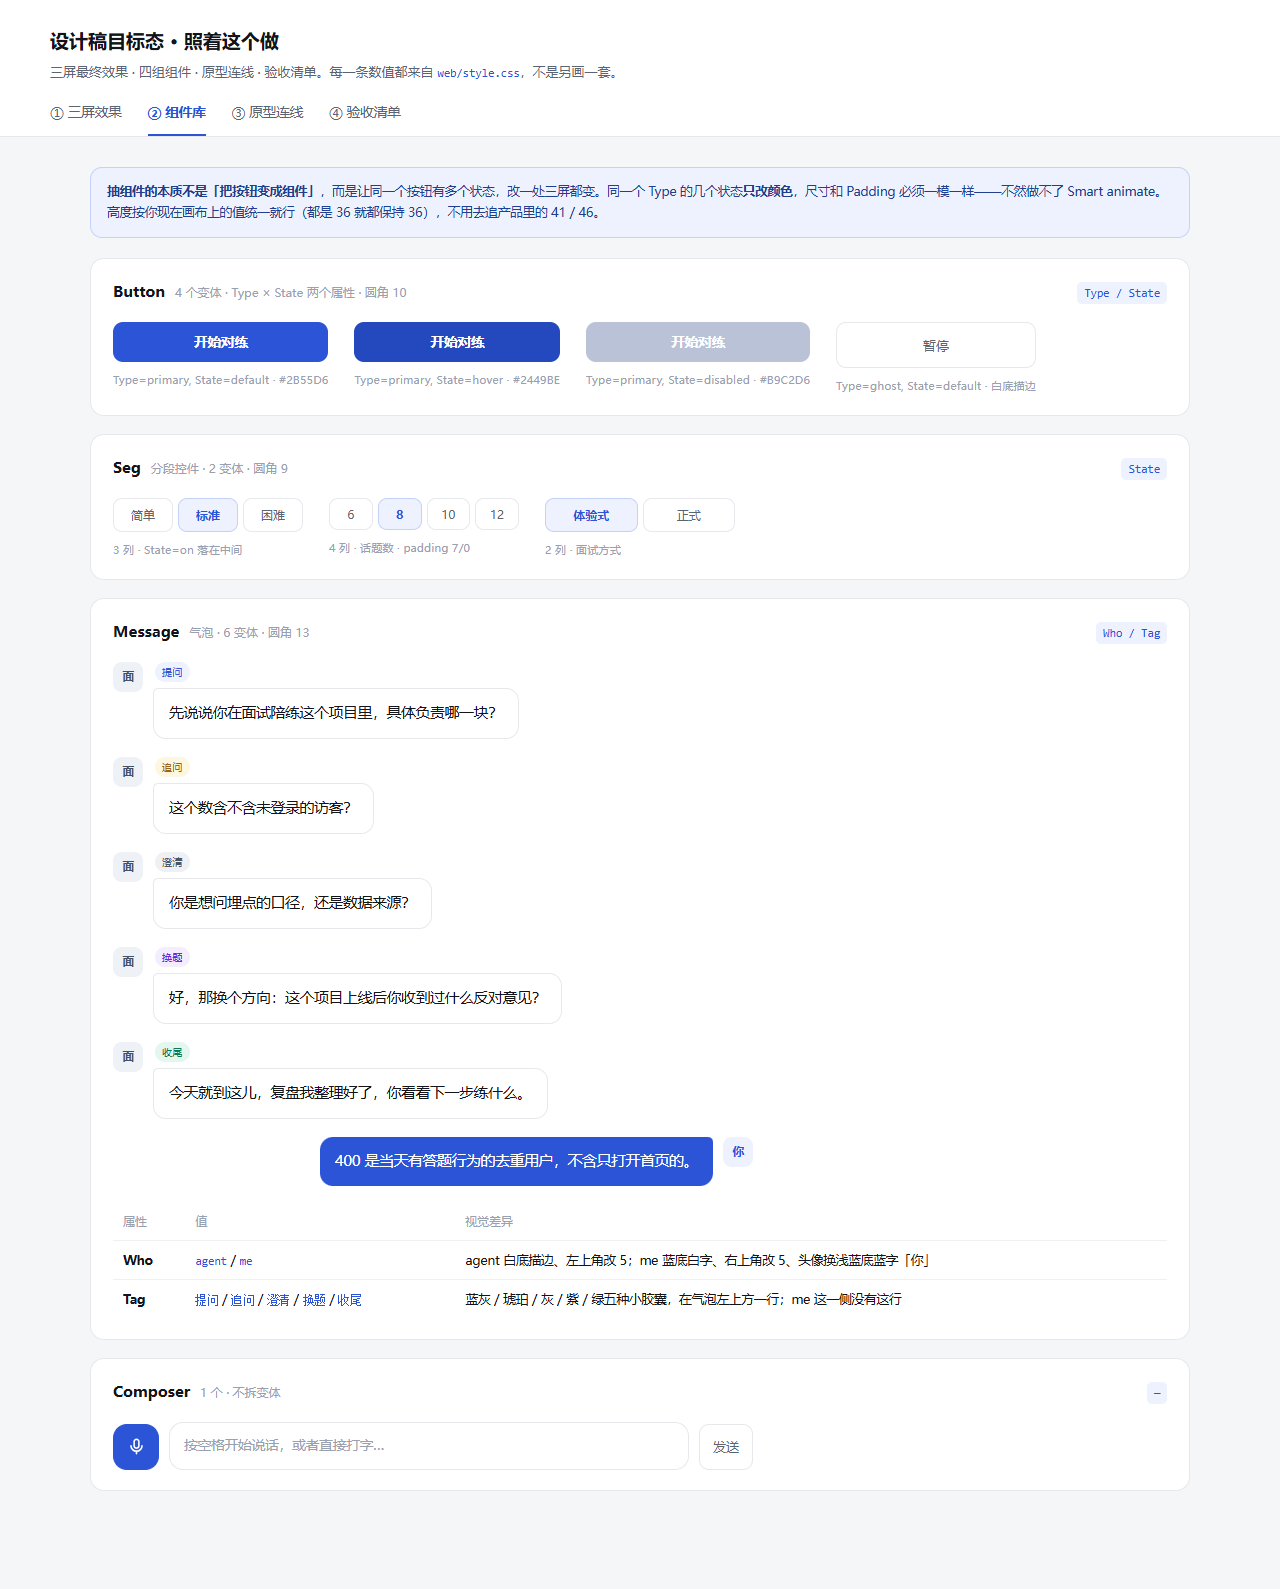
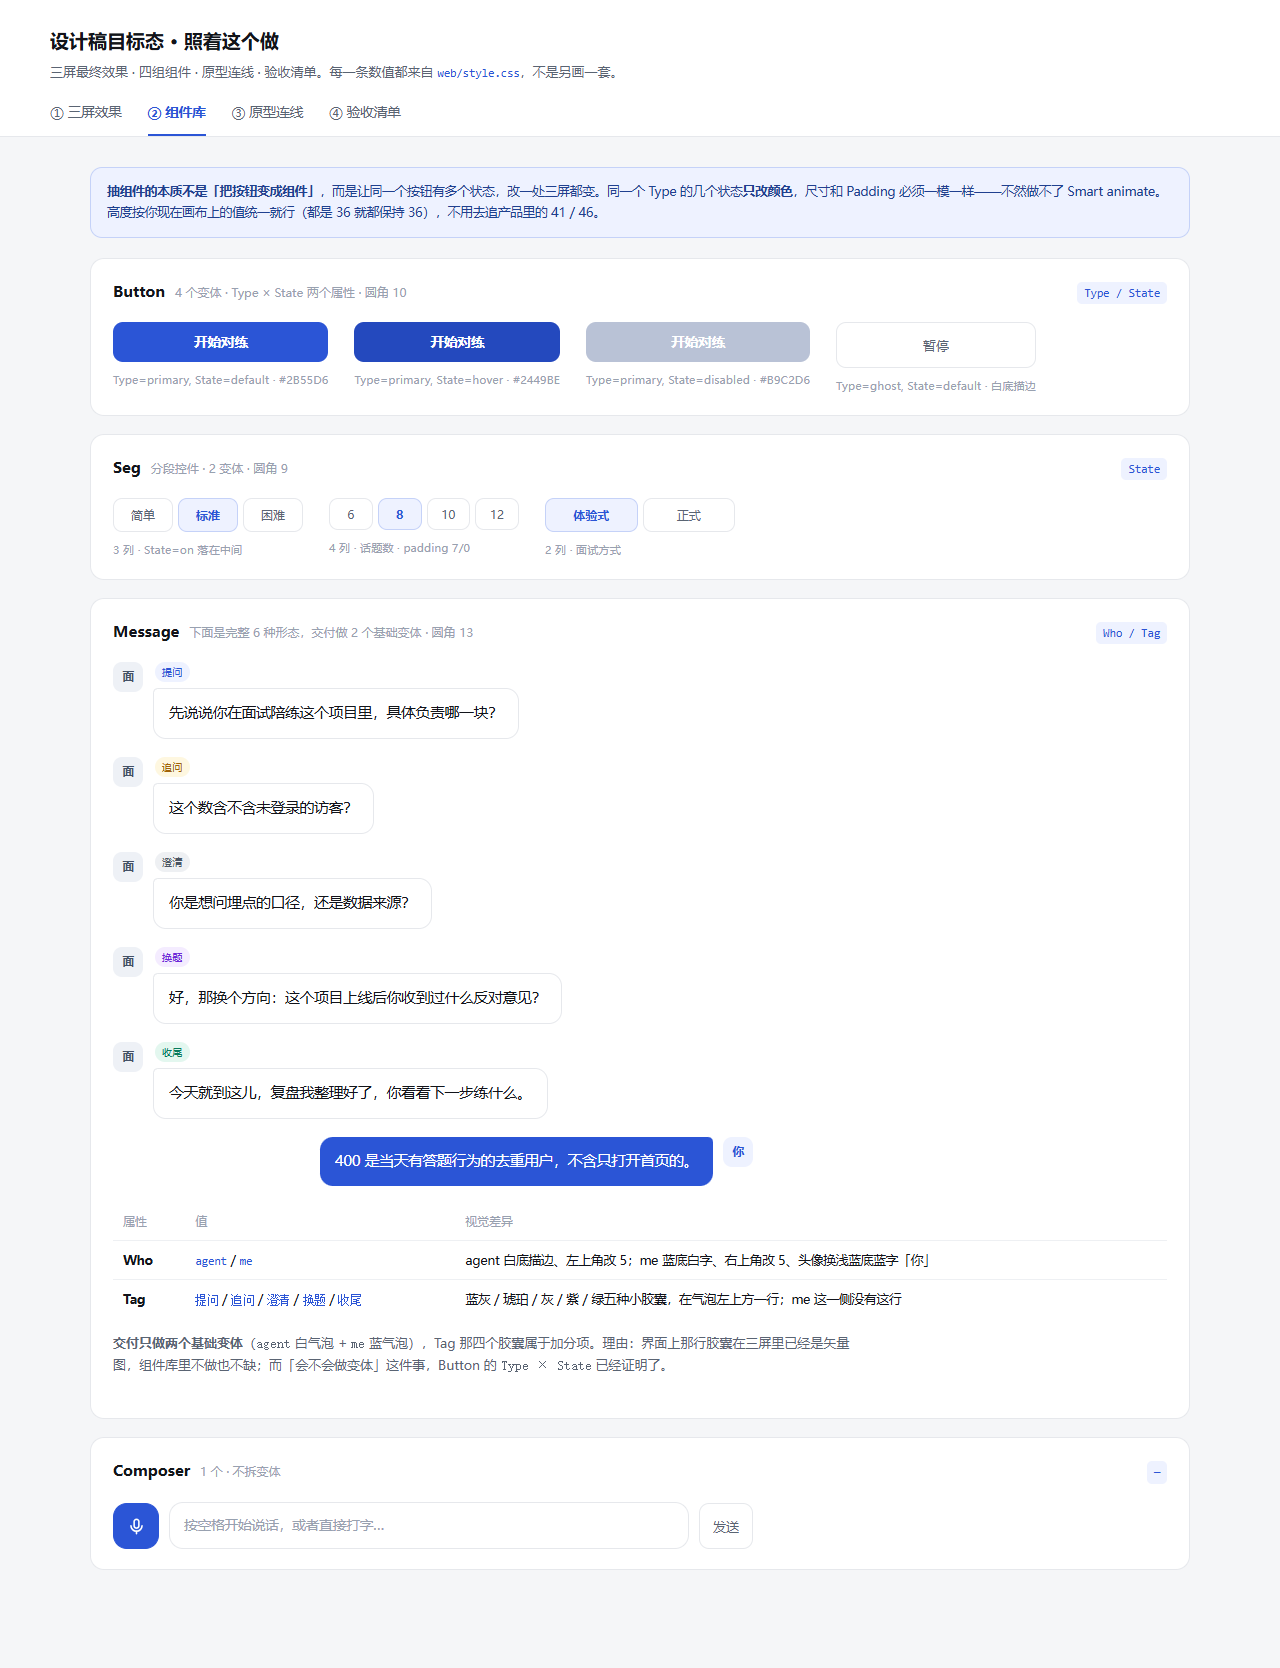
docs(figma): Message 交付口径收敛为 2 个基础变体，Tag 降为加分项

diff --git a/dev/目标效果.src.html b/dev/目标效果.src.html
@@ -260,7 +260,7 @@
   </div>
 
   <div class="spec">
-    <div class="spec-h"><b>Message</b><span>气泡 · 6 变体 · 圆角 13</span><code>Who / Tag</code></div>
+    <div class="spec-h"><b>Message</b><span>下面是完整 6 种形态，交付做 2 个基础变体 · 圆角 13</span><code>Who / Tag</code></div>
     <div class="chatbox">
       <div class="msg agent">
         <div class="avatar">面</div>
@@ -309,6 +309,7 @@
       <tr><td><b>Who</b></td><td><code>agent</code> / <code>me</code></td><td>agent 白底描边、左上角改 5；me 蓝底白字、右上角改 5、头像换浅蓝底蓝字「你」</td></tr>
       <tr><td><b>Tag</b></td><td><code>提问</code> / <code>追问</code> / <code>澄清</code> / <code>换题</code> / <code>收尾</code></td><td>蓝灰 / 琥珀 / 灰 / 紫 / 绿五种小胶囊，在气泡左上方一行；me 这一侧没有这行</td></tr>
     </table>
+    <p class="lead" style="margin-top:14px"><b>交付只做两个基础变体</b>（<code>agent</code> 白气泡 + <code>me</code> 蓝气泡），Tag 那四个胶囊属于加分项。理由：界面上那行胶囊在三屏里已经是矢量图，组件库里不做也不缺；而「会不会做变体」这件事，Button 的 <code>Type × State</code> 已经证明了。</p>
   </div>
 
   <div class="spec">
@@ -375,7 +376,7 @@
       <tr><td>5</td><td>字体没掉</td><td>选中任意文字，字体是 Noto Sans SC 或微软雅黑，没有红叹号</td></tr>
       <tr><td>6</td><td>卡片有 Auto Layout</td><td>选中侧栏卡片，右侧有 Auto layout 区，不是只有一个 +</td></tr>
       <tr><td>7</td><td>颜色是样式</td><td>Fill 显示 <code>accent</code> / <code>panel</code> 这类名字，不是 #2B55D6</td></tr>
-      <tr><td>8</td><td>Assets 里有四组组件</td><td>Button / Seg / Message / Composer 都在，且变体数对得上</td></tr>
+      <tr><td>8</td><td>Assets 里有四组组件</td><td>Button / Seg / Message / Composer 都在；Button 右侧能看到 Type / State 两个下拉</td></tr>
       <tr><td>9</td><td>三屏用的是实例</td><td>点 01 屏的「开始对练」，图层是空心菱形（实例，不是散图层）；改主组件颜色，三屏跟着变</td></tr>
       <tr><td>10</td><td>演示能点通</td><td>右上角 ▶ 进演示，01 → 02 → 03 → 01 一路点得下去</td></tr>
     </table>

diff --git a/作品集/figma/目标效果.html b/作品集/figma/目标效果.html
@@ -262,7 +262,7 @@
   </div>
 
   <div class="spec">
-    <div class="spec-h"><b>Message</b><span>气泡 · 6 变体 · 圆角 13</span><code>Who / Tag</code></div>
+    <div class="spec-h"><b>Message</b><span>下面是完整 6 种形态，交付做 2 个基础变体 · 圆角 13</span><code>Who / Tag</code></div>
     <div class="chatbox">
       <div class="msg agent">
         <div class="avatar">面</div>
@@ -311,6 +311,7 @@
       <tr><td><b>Who</b></td><td><code>agent</code> / <code>me</code></td><td>agent 白底描边、左上角改 5；me 蓝底白字、右上角改 5、头像换浅蓝底蓝字「你」</td></tr>
       <tr><td><b>Tag</b></td><td><code>提问</code> / <code>追问</code> / <code>澄清</code> / <code>换题</code> / <code>收尾</code></td><td>蓝灰 / 琥珀 / 灰 / 紫 / 绿五种小胶囊，在气泡左上方一行；me 这一侧没有这行</td></tr>
     </table>
+    <p class="lead" style="margin-top:14px"><b>交付只做两个基础变体</b>（<code>agent</code> 白气泡 + <code>me</code> 蓝气泡），Tag 那四个胶囊属于加分项。理由：界面上那行胶囊在三屏里已经是矢量图，组件库里不做也不缺；而「会不会做变体」这件事，Button 的 <code>Type × State</code> 已经证明了。</p>
   </div>
 
   <div class="spec">
@@ -377,7 +378,7 @@
       <tr><td>5</td><td>字体没掉</td><td>选中任意文字，字体是 Noto Sans SC 或微软雅黑，没有红叹号</td></tr>
       <tr><td>6</td><td>卡片有 Auto Layout</td><td>选中侧栏卡片，右侧有 Auto layout 区，不是只有一个 +</td></tr>
       <tr><td>7</td><td>颜色是样式</td><td>Fill 显示 <code>accent</code> / <code>panel</code> 这类名字，不是 #2B55D6</td></tr>
-      <tr><td>8</td><td>Assets 里有四组组件</td><td>Button / Seg / Message / Composer 都在，且变体数对得上</td></tr>
+      <tr><td>8</td><td>Assets 里有四组组件</td><td>Button / Seg / Message / Composer 都在；Button 右侧能看到 Type / State 两个下拉</td></tr>
       <tr><td>9</td><td>三屏用的是实例</td><td>点 01 屏的「开始对练」，图层是空心菱形（实例，不是散图层）；改主组件颜色，三屏跟着变</td></tr>
       <tr><td>10</td><td>演示能点通</td><td>右上角 ▶ 进演示，01 → 02 → 03 → 01 一路点得下去</td></tr>
     </table>
